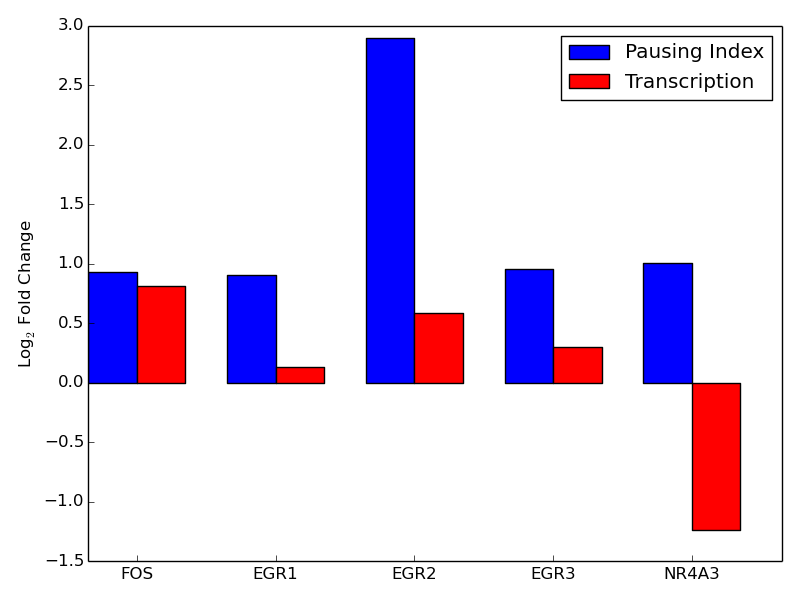
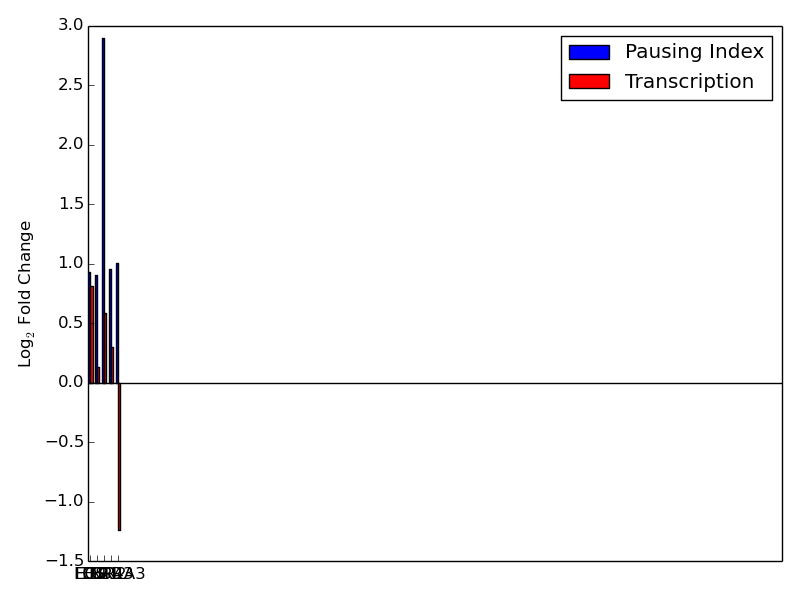
updates

diff --git a/src/master_writer.py b/src/master_writer.py
@@ -423,7 +423,7 @@ def run(DMSOgenes,DMSOTSS,DMSOEND,CAgenes,CATSS,CAEND,filedir,figuredir):
     fig,ax1 = plt.subplots()
     PI = ax1.bar(ind,PIbarplotsorted,width, color='b')
     Txn = ax1.bar(ind+width,Txnbarplotsorted,width,color='r')
-    ax1.plot([0,100],[0,0],color = 'k')
+    ax1.plot([0,N*width*2],[0,0],color = 'k')
     ax1.legend((PI,Txn),('Pausing Index','Transcription'))
     ax1.set_ylabel('Log$_2$ Fold Change')
     ax1.set_xticks(ind + width)
